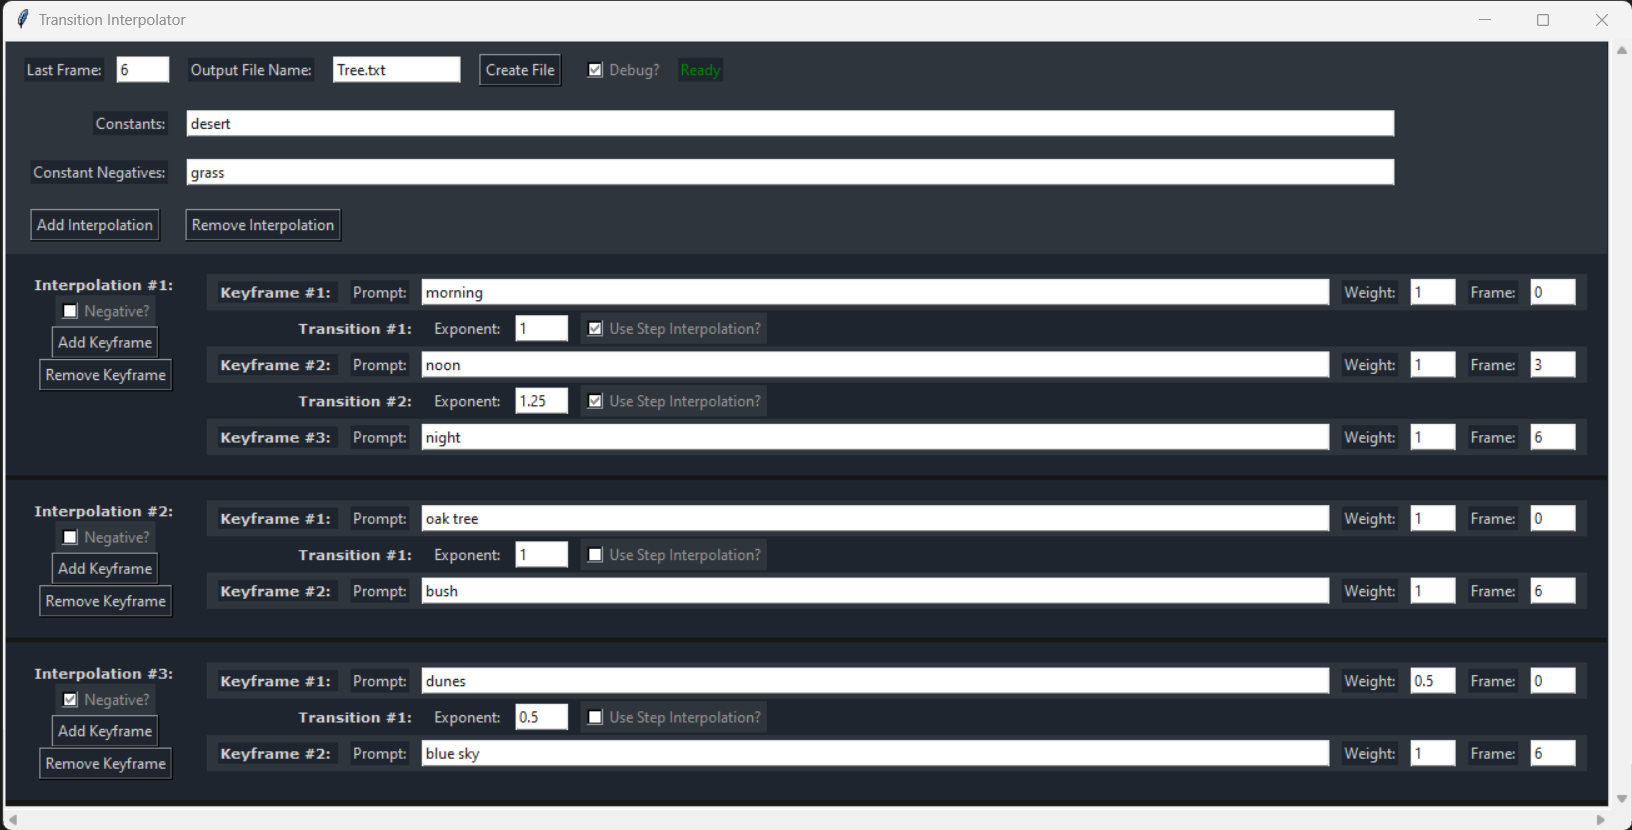
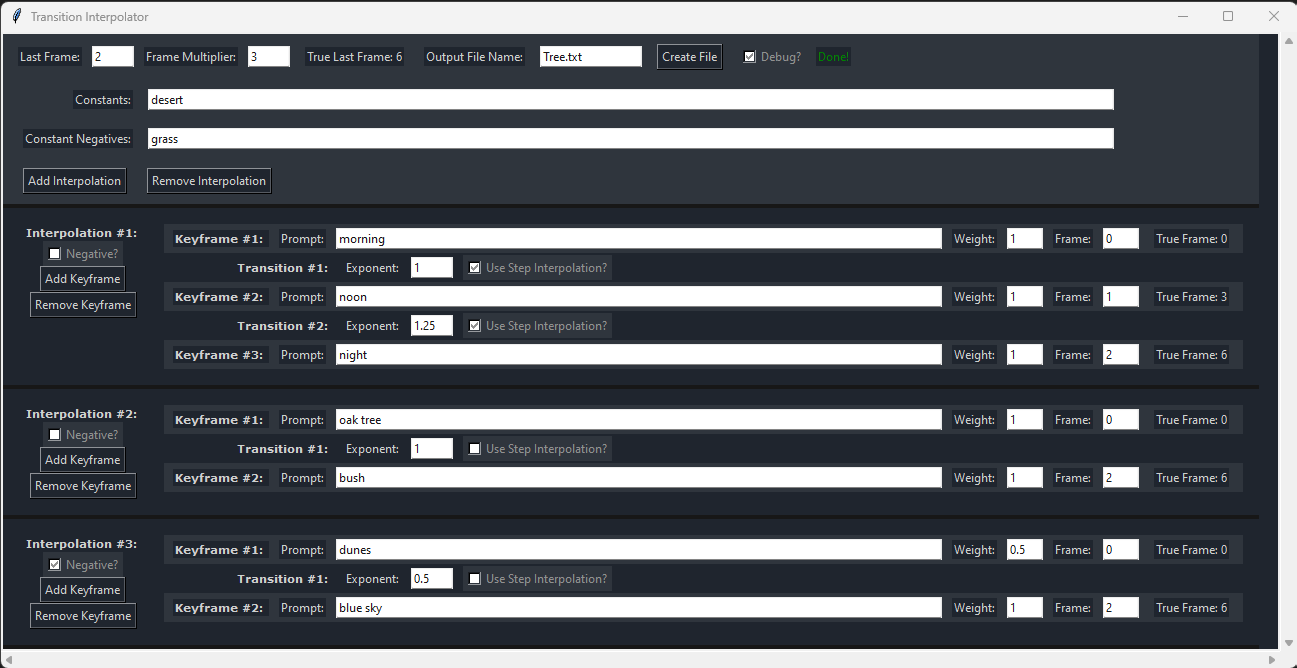
Frame Multiplier

diff --git a/TransitionInterpolator.py b/TransitionInterpolator.py
@@ -123,6 +123,24 @@ class TransitionEditor:
                                      textvariable=self.frames, validate="key", validatecommand=(valid1, '%P'))
         self.framesEntry.pack(padx=5, side="left")
 
+        self.frames.trace("w", self.updateFrameLabels)
+
+        self.multiplierLabel = ttk.Label(self.runFrame, text="Frame Multiplier:", background=navyColor,
+                                     foreground=whiteColor)
+        self.multiplierLabel.pack(padx=5, side="left")
+
+        validM = self.runFrame.register(validate_int_10k)
+        self.multiplier = tk.StringVar(value="1")
+        self.multiplierEntry = ttk.Entry(self.runFrame, width=6, background=greyColor, foreground=blackColor,
+                                     textvariable=self.multiplier, validate="key", validatecommand=(validM, '%P'))
+        self.multiplierEntry.pack(padx=5, side="left")
+
+        self.multiplier.trace("w", self.updateFrameLabels)
+
+        self.trueLastLabel = ttk.Label(self.runFrame, text="True Last Frame: 10", background=navyColor,
+                                       foreground=whiteColor)
+        self.trueLastLabel.pack(pady=10, padx=10, side="left")
+
         self.fileNameLabel = ttk.Label(self.runFrame, text="Output File Name:", background=navyColor,
                                        foreground=whiteColor)
         self.fileNameLabel.pack(pady=10, padx=10, side="left")
@@ -148,12 +166,36 @@ class TransitionEditor:
         self.runningLabel.pack(pady=5, padx=5, side="left")
 
         #This pre-opens up some of the UI
-        #blankFrame = BlankFrame(self.transition_frame, 0)
-        #self.blanks.append(blankFrame)
-        #self.add_transition()
+        blankFrame = BlankFrame(self.transition_frame, 0)
+        self.blanks.append(blankFrame)
+        self.add_transition()
+
+    def updateFrameLabels(self, *args):
+        mult = 0
+        try:
+            mult = int(self.multiplier.get())
+        except:
+            pass
+        mFrames = 0
+        try:
+            mFrames = int(self.frames.get())
+        except:
+            pass
+        tex="True Last Frame: {}".format(mult*mFrames)
+        self.trueLastLabel.config(text=tex)
+        for transition in self.transitions:
+            for keyframe in transition.keyframes:
+                fr = 0
+                try:
+                    fr = int(keyframe.time.get())
+                except:
+                    pass
+                tex2 = "True Frame: {}".format(mult*fr)
+                keyframe.trueFrameLabel.config(text=tex2)
 
     def updateScrollRegion(self, event):
         self.scrollCanvas.update_idletasks()
+        self.updateFrameLabels()
         self.scrollCanvas.configure(scrollregion=self.scrollCanvas.bbox("all"))
 
     def mouseScrollY(self, event):
@@ -167,7 +209,8 @@ class TransitionEditor:
         self.runningLabel.config(text="Running...", foreground=goldColor)
         try:
             #For each frame
-            for frame in range(int(self.frames.get()) + 1):
+            multiplier = int(self.multiplier.get())
+            for frame in range(int(self.frames.get())*multiplier + 1):
                 prompt = []
                 negPrompt = []
                 #For each transition
@@ -175,9 +218,9 @@ class TransitionEditor:
                     if len(transition.keyframes) < 1:
                         continue
                     startKeyframe = transition.keyframes[0]
-                    startDist = max(frame - int(startKeyframe.time_entry.get()), 0)
+                    startDist = max(frame - int(startKeyframe.time_entry.get())*multiplier, 0)
                     endKeyframe = transition.keyframes[-1]
-                    endDist = max(int(endKeyframe.time_entry.get()) - frame, 0)
+                    endDist = max(int(endKeyframe.time_entry.get())*multiplier - frame, 0)
                     exponent = transition.exponents[0]
                     if startDist < 0:
                         newPrompt = weightFormat.format(startKeyframe.prompt_entry.get(), startKeyframe.weight_entry.get())
@@ -195,7 +238,7 @@ class TransitionEditor:
                     # Loop through keyframes until closest one on each side is found
                     for i in range(len(transition.keyframes)):
                         keyframe = transition.keyframes[i]
-                        time = int(transition.keyframes[i].time_entry.get())
+                        time = int(transition.keyframes[i].time_entry.get())*multiplier
                         if time < frame:
                             if max(frame - time, 0) < startDist and keyframe != transition.keyframes[-1]:
                                 startKeyframe = keyframe
@@ -219,8 +262,7 @@ class TransitionEditor:
                                 endDist = max(frame - time, 0)
                                 if i < len(transition.exponents):
                                     exponent = transition.exponents[i]
-                    print(str(frame) + ": " + startKeyframe.prompt_entry.get() + "-" + endKeyframe.prompt_entry.get())
-                    interp = (frame - int(startKeyframe.time_entry.get())) / (int(endKeyframe.time_entry.get()) - int(startKeyframe.time_entry.get()))
+                    interp = (frame - int(startKeyframe.time_entry.get())*multiplier) / (int(endKeyframe.time_entry.get())*multiplier - int(startKeyframe.time_entry.get())*multiplier)
                     interp = scurve(interp, float(exponent.exponent.get()))
                     if interp >= 1:
                         interp = 0.999
@@ -242,6 +284,7 @@ class TransitionEditor:
                 finalPromps = ', '.join(prompt + [self.constantsEntry.get()])
                 finalNegPrompts = ', '.join(negPrompt + [self.negConstantsEntry.get()])
                 line = lineFormat.format(finalPromps, finalNegPrompts)
+                print(line)
                 f.write(line)
         except Exception as error:
             if self.debugging.get():
@@ -254,7 +297,7 @@ class TransitionEditor:
         self.runningLabel.config(text="Done!", foreground="green")
 
     def add_transition(self):
-        transition = Transition(self.transition_frame, len(self.transitions) + 1)
+        transition = Transition(self.transition_frame, len(self.transitions) + 1, self)
         transition.add_keyframe()
         transition.add_keyframe()
         blankFrame = BlankFrame(self.transition_frame, len(self.transitions) + 1)
@@ -279,8 +322,9 @@ class BlankFrame:
         self.blank_frame.grid(sticky="ew",row=num * 2 + 2, column=0)
 
 class Transition:
-    def __init__(self, parent_frame, num):
+    def __init__(self, parent_frame, num, transitionEditor):
         self.parent_frame = parent_frame
+        self.transitionEditor = transitionEditor
         self.keyframes = []
         self.exponents = []
 
@@ -315,7 +359,7 @@ class Transition:
         if keys > 0:
             exponent = Exponent(self.keyframes_frame, keys)
             self.exponents.append(exponent)
-        keyframe = Keyframe(self.keyframes_frame, keys+1)
+        keyframe = Keyframe(self.keyframes_frame, keys+1, self.transitionEditor)
         self.keyframes.append(keyframe)
     def remove_keyframe(self):
         keys = len(self.keyframes)
@@ -330,8 +374,9 @@ class Transition:
         keyframe.keyframe_frame.destroy()
 
 class Keyframe:
-    def __init__(self, parent_frame, num):
+    def __init__(self, parent_frame, num, transitionEditor):
         self.parent_frame = parent_frame
+        self.transitionEditor = transitionEditor
 
         self.keyframe_frame = tk.Frame(parent_frame, padx=4, pady=4, bg=greyColor)
         self.keyframe_frame.pack(fill="x")
@@ -341,7 +386,7 @@ class Keyframe:
 
         self.prompt_label = ttk.Label(self.keyframe_frame, text="Prompt:", background=navyColor, foreground=whiteColor)
         self.prompt_label.pack(side="left", padx=5)
-        self.prompt_entry = ttk.Entry(self.keyframe_frame, width=120, background=navyColor, foreground=blackColor)
+        self.prompt_entry = ttk.Entry(self.keyframe_frame, width=100, background=navyColor, foreground=blackColor)
         self.prompt_entry.pack(side="left", padx=5)
 
         self.weight = tk.StringVar(value="1")
@@ -357,6 +402,17 @@ class Keyframe:
         self.time_label.pack(side="left", padx=5)
         self.time_entry = ttk.Entry(self.keyframe_frame, width=5, background=navyColor, foreground=blackColor, validate="key", validatecommand=(valid2, '%P'),textvariable=self.time)
         self.time_entry.pack(side="left", padx=5)
+
+        self.time.trace("w", self.transitionEditor.updateFrameLabels)
+
+        result = 0
+        try:
+            result = int(transitionEditor.multiplier.get())
+        except:
+            pass
+        self.trueFrameLabel = ttk.Label(self.keyframe_frame, text="True Frame: {}".format(str((num - 1)*result)), background=navyColor,
+                                       foreground=whiteColor)
+        self.trueFrameLabel.pack(padx=10, side="left")
 
 class Exponent:
     def __init__(self, parent_frame, num):

diff --git a/README.md b/README.md
@@ -31,6 +31,8 @@ While the UI may be self-explanatory for those who have used software with keyfr
 The top bar of the UI contains important settings that effect the rest of the UI:
 - The "Add/Remove Interpolations" buttons add and remove interpolations
 - "Last Frame" decides the frame number at which to stop (the number of output images will be this value + 1 to include the zero frame).
+- The "Frame Multiplier" allows you to scale the frames in order to easily increase the number of output images without manually modifying all of the keyframe values. I suggest setting up your interpolations and keyframes to be in a small range of under 10 frames for quick testing, then increasing the images outputted by a large factor once you are happy with your prompts using the frame multiplier.
+- "True Last Frame" lists the actual last frame which takes the frame multiplier into account.
 - "Constants" is the positive prompt which diffusion applies to each image. You can use all normal Automatic 1111 prompt formatting. Note that you should not use this as a replacement of Automatic 1111's styles feature, as that has more flexibility, but rather an ease-of-use tool to avoid having to make an interpolation with only one keyframe to have constant values.
 - "Constant Negatives" is the same exact thing, but for negative prompts.
 - "Output File Name" is the name of the file which the script will create. The script will create the file in its parent folder.
@@ -48,6 +50,7 @@ Each "Keyframe: represents a prompt at a set point in time. The script interpola
 - The "Prompt" is the prompt at that keyframe. You can use all normal Automatic 1111 prompt formatting.
 - The "Weight" is a multiplier applied to the prompt.
 - The "Frame" is the time at which the keyframe occurs. The script chooses which prompts to blend and how much based on the distance of the current image’s frame to this value. This must be in-between the frames of the surrounding keyframes, or the script will produce strange outputs.
+- "True Frame" lists the actual frame which takes the frame multiplier into account.
 
 ### Transition:
 Between every pair of keyframes there will be a transition which the script uses to decide how it interpolates their prompts:
